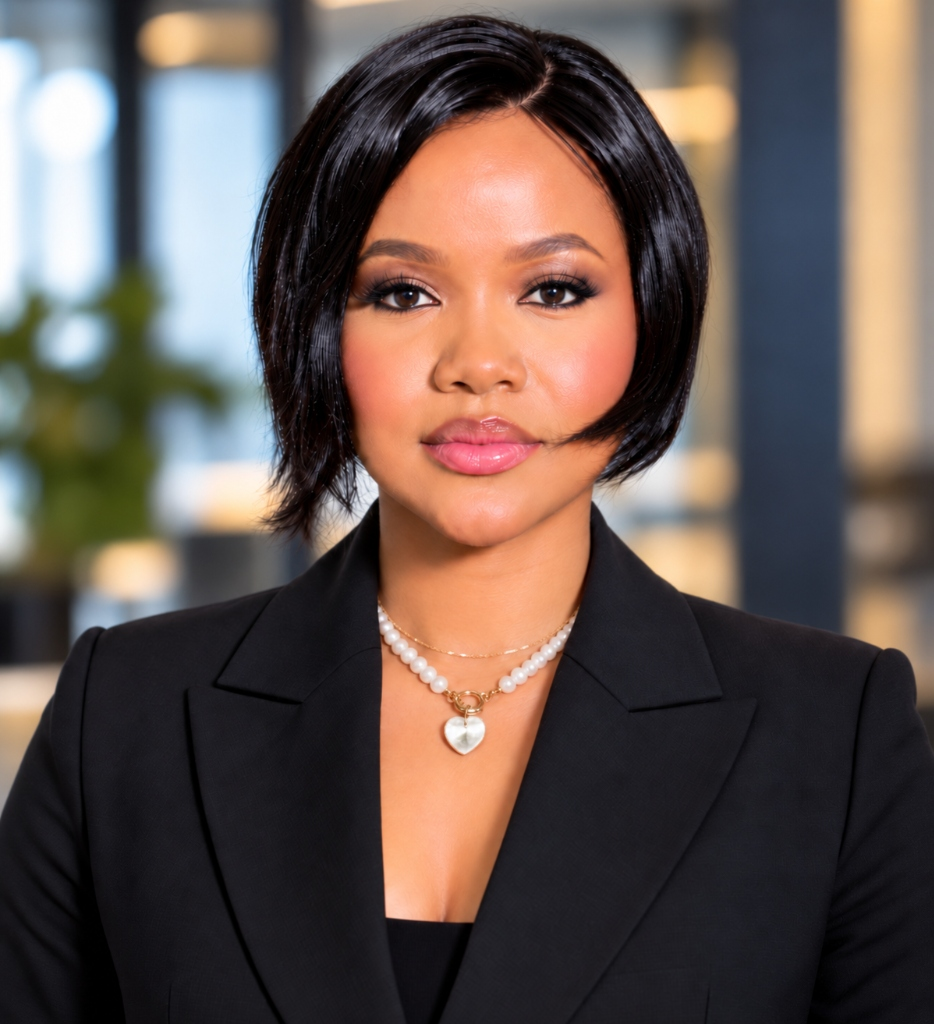
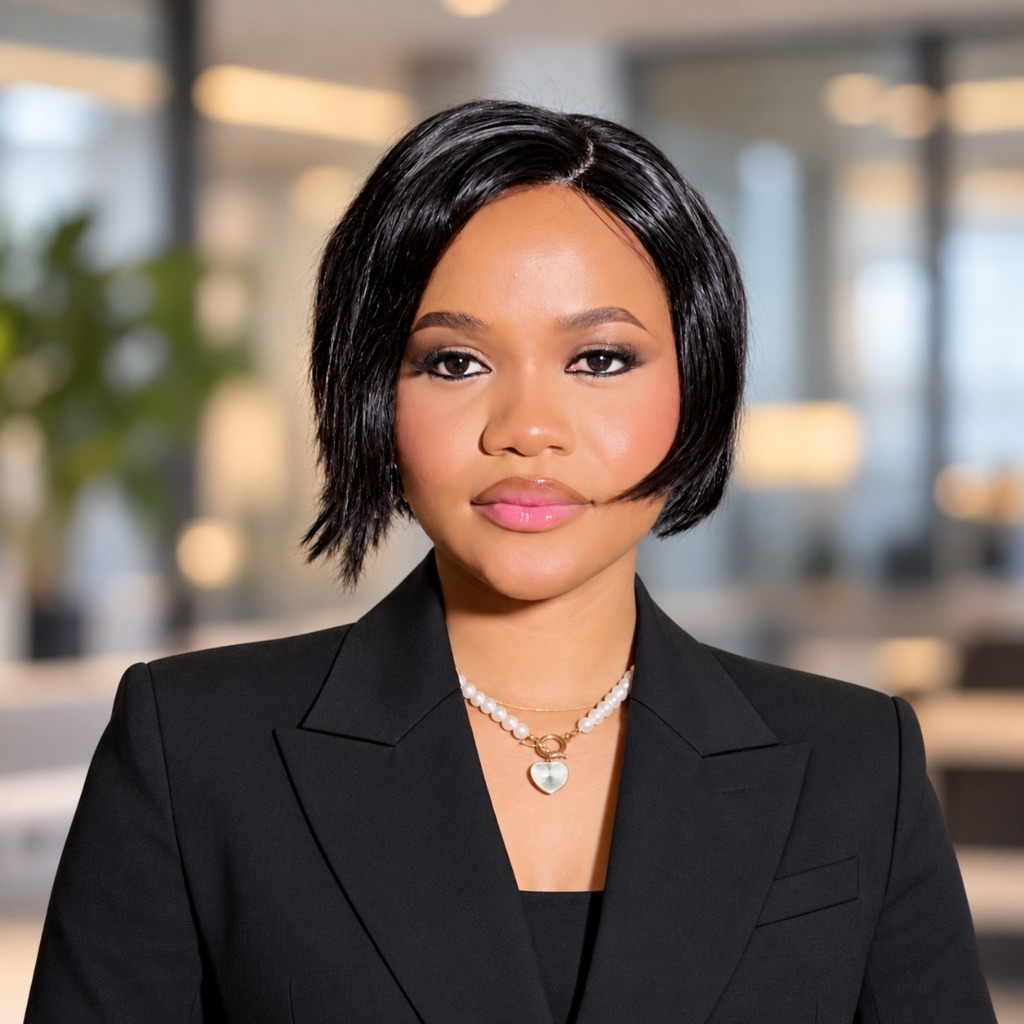
Update Judith portrait and set contact offices to Lagos HQ only

diff --git a/app/(site)/contact/page.tsx b/app/(site)/contact/page.tsx
@@ -20,22 +20,40 @@ export default async function ContactPage() {
         <div className="container-wrap">
           <Reveal>
             <div className="flex flex-wrap justify-between items-end gap-10 mb-14">
-              <h2 className="font-serif text-[2rem] md:text-[2.5rem] text-navy">Our offices</h2>
+              <h2 className="font-serif text-[2rem] md:text-[2.5rem] text-navy">
+                {offices.length > 1 ? "Our offices" : "Our office"}
+              </h2>
               <p className="text-[#4c5a6b] max-w-[380px] text-[0.94rem] leading-[1.6]">
-                Headquartered in Lagos, with desks connecting global trading corridors.
+                {offices.length > 1
+                  ? "Headquartered in Lagos, with desks connecting global trading corridors."
+                  : "Headquartered in Lagos, Nigeria."}
               </p>
             </div>
           </Reveal>
-          <div className="grid grid-cols-1 sm:grid-cols-2 lg:grid-cols-4 gap-10">
-            {offices.map(({ name, country, phone }) => (
+          <div className="grid grid-cols-1 sm:grid-cols-2 lg:grid-cols-3 gap-10">
+            {offices.map(({ name, country, address, phone }) => (
               <Reveal key={name}>
                 <div className="pt-6 border-t border-[rgba(177,118,63,0.28)]">
                   <h3 className="text-[1.1rem] font-semibold text-navy">{name}</h3>
-                  <p className="text-[0.88rem] text-[#4c5a6b] leading-[1.7] mt-2">
-                    {country}
-                    <br />
-                    {phone}
-                  </p>
+                  <div className="text-[0.88rem] text-[#4c5a6b] leading-[1.7] mt-3 space-y-2">
+                    {address ? (
+                      <p className="whitespace-pre-line text-[#2c3846]">
+                        {address}
+                      </p>
+                    ) : (
+                      country && <p>{country}</p>
+                    )}
+                    {phone && (
+                      <p>
+                        <a
+                          href={`tel:${phone.replace(/\s+/g, "")}`}
+                          className="hover:text-gold transition-colors font-medium text-navy"
+                        >
+                          {phone}
+                        </a>
+                      </p>
+                    )}
+                  </div>
                 </div>
               </Reveal>
             ))}

diff --git a/lib/content.ts b/lib/content.ts
@@ -187,18 +187,20 @@ export function getJobs() {
 }
 
 // ---------------- Offices ----------------
-export type OfficeItem = { name: string; country: string; phone: string };
+export type OfficeItem = { name: string; country?: string; address?: string; phone: string };
 
 const fallbackOffices: OfficeItem[] = [
-  { name: "Lagos HQ", country: "Nigeria", phone: "+234 1 000 0000" },
-  { name: "Rotterdam", country: "Netherlands", phone: "+31 10 000 0000" },
-  { name: "Singapore", country: "Singapore", phone: "+65 6000 0000" },
-  { name: "Dubai", country: "United Arab Emirates", phone: "+971 4 000 0000" },
+  {
+    name: "Lagos HQ",
+    address: "ROAD 4, CLOSE 3, WESTEND ESTATE,\nLEKKI COUNTY, LAGOS STATE, NIGERIA",
+    country: "Nigeria",
+    phone: "+2348032894304",
+  },
 ];
 
 export function getOffices() {
   return safeFetch<OfficeItem[]>(
-    `*[_type == "officeLocation"] | order(order asc){name, country, phone}`,
+    `*[_type == "officeLocation"] | order(order asc){name, country, address, phone}`,
     fallbackOffices
   );
 }

diff --git a/sanity/schemaTypes/officeLocation.ts b/sanity/schemaTypes/officeLocation.ts
@@ -6,6 +6,7 @@ export default defineType({
   type: "document",
   fields: [
     defineField({ name: "name", title: "Office name (e.g. Lagos HQ)", type: "string", validation: (Rule) => Rule.required() }),
+    defineField({ name: "address", title: "Address", type: "text" }),
     defineField({ name: "country", title: "Country", type: "string" }),
     defineField({ name: "phone", title: "Phone", type: "string" }),
     defineField({ name: "isHeadquarters", title: "This is the headquarters", type: "boolean", initialValue: false }),
